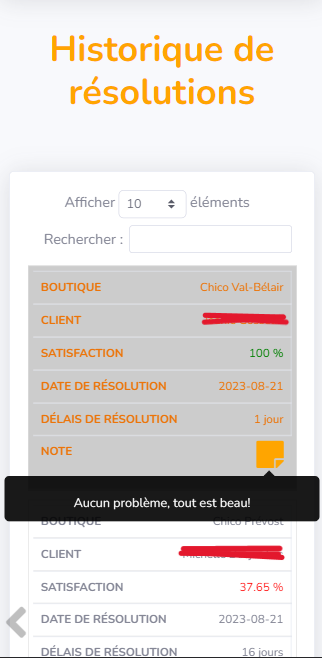
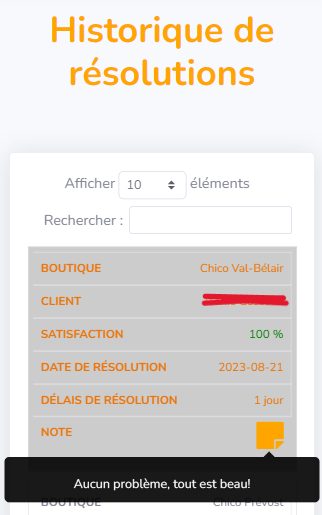
La page de presentation du projet chico est presque terminée

diff --git a/src/components/Details/Chico.jsx b/src/components/Details/Chico.jsx
@@ -7,7 +7,6 @@ import Notification from "../../assets/projects/chico/Notification.png";
 import Stats from "../../assets/projects/chico/Stats.png";
 import Swipe from "../../assets/projects/chico/Swipe.png";
 import InfosSondage from "../../assets/projects/chico/InfosSondage.png";
-import Note from "../../assets/projects/chico/Note.png";
 import HistoriqueNote from "../../assets/projects/chico/HistoriqueNote.png";
 import DtailsReponses from "../../assets/projects/chico/DtailsReponses.png";
 import Datatable from "../../assets/projects/chico/Datatable.png";
@@ -55,12 +54,12 @@ const ChicoDetails = () => {
         </a>
       </div>
       <div className="max-w-[1000px] mx-auto p-4 flex flex-col justify-center w-full h-full">
-        <div class="py-6 sm:py-8 lg:py-12 pt-10">
+        <div class="py-4 sm:py-8 lg:py-20 pt-10">
           <div class="mx-auto max-w-screen-2xl px-4 md:px-8">
-            <div class="mb-4 flex items-center justify-between gap-8 sm:mb-8 md:mb-12">
+            <div class="flex items-center justify-between gap-8 sm:mb-8 md:mb-12">
               <div className="pb-8">
                 <h1 className="text-4xl sm:text-7xl font-bold inline border-b-4 border-[#ff840092]">
-                  Chico
+                  Franchises Chico
                 </h1>
                 <p className="py-10">
                   // Durant mon stage, j'ai travaillé sur un projet intitullé
@@ -206,7 +205,7 @@ const ChicoDetails = () => {
               </div>
             </div>
 
-            {/* New grid start */}
+            {/* New grid start 3 */}
             <div className="mt-20 grid grid-cols-1 sm:grid-cols-2 md:grid-cols-3 grid-rows-1 gap-4">
               <div className="md:col-span-2">
                 {/* Text */}
@@ -247,6 +246,118 @@ const ChicoDetails = () => {
                     }
                   />
                 </a>
+              </div>
+            </div>
+
+            {/* grid start 4 */}
+
+            <div class="mt-20 grid grid-cols-1 sm:grid-cols-2 gap-6 md:gap-6 xl:gap-8">
+              {/*  image - start  */}
+              <div class="group relative flex h-48 md:h-80 items-end overflow-hidden rounded-lg">
+                <img
+                  src={HistoriqueNote}
+                  loading="lazy"
+                  alt="HistoriqueNote"
+                  className="absolute inset-0 h-full w-full object-cover object-center transition duration-200 group-hover:scale-110"
+                  onClick={() =>
+                    setModalInfo({
+                      isOpen: true,
+                      src: HistoriqueNote,
+                      alt: "HistoriqueNote",
+                    })
+                  }
+                />
+              </div>
+              {/*  image - end  */}
+
+              {/* Text start */}
+              <div class="grid sm:col-span-1 gap-4 md:gap-6 xl:gap-8">
+                <p className="text-s">
+                  L'interface permet également de consulter l'historique des
+                  résolutions d'alertes. Dans cette section, les utilisateurs
+                  ont la possibilité de visualiser les notes de résolution
+                  associées à chaque alerte passée. Les alertes dans
+                  l'historique sont triées en fonction de la résolution la plus
+                  récente, ce qui permet d'avoir une vue claire des actions
+                  prises pour chaque alerte précédente.
+                  <br /> <br />
+                  Contrairement à la page principale des alertes, où les alertes
+                  sont classées en fonction du nombre de jours en alerte pour
+                  prioriser celles qui nécessitent une réponse immédiate,
+                  l'historique met en avant le suivi des actions prises pour
+                  résoudre les alertes passées. De plus, pour faciliter la
+                  recherche et la gestion, j'ai intégré l'utilisation de{" "}
+                  <a
+                    className="hover:text-[--amethyst] duration-300"
+                    href="https://datatables.net/manual/"
+                    target="_blank"
+                    rel="noopener noreferrer"
+                  >
+                    DataTables
+                  </a>
+                  , offrant ainsi la possibilité d'appliquer différents filtres
+                  et options pour une meilleure expérience utilisateur.
+                </p>
+              </div>
+
+              {/*  image - start  */}
+              <a
+                href="#"
+                className="group relative flex h-48 items-end overflow-hidden rounded-lg md:col-span-full md:h-80"
+              >
+                <img
+                  src={Datatable}
+                  loading="lazy"
+                  alt="Datatable"
+                  className="absolute inset-0 h-full w-full object-cover object-center transition duration-200 group-hover:scale-110"
+                  onClick={() =>
+                    setModalInfo({
+                      isOpen: true,
+                      src: Datatable,
+                      alt: "Datatable",
+                    })
+                  }
+                />
+              </a>
+
+              {/*  image - end  */}
+            </div>
+
+            {/* Last grid */}
+            <div className="mt-20 grid grid-cols-1 grid-rows-1 gap-4">
+              <div>
+                {/* Text start */}
+                <div class="grid sm:col-span-1">
+                  <p className="text-s">
+                    Pendant mon stage, j'ai été confronté à de nouvelles
+                    technologies que je n'avais jamais rencontrées à l'école.
+                    Cependant, une fois que l'on a acquis une solide
+                    compréhension des bases de la programmation, du modèle MVC
+                    et des requêtes SQL, par exemple, il devient plus aisé de
+                    s'adapter. J'ai fait un usage étendu de jQuery et j'ai eu à
+                    réaliser des requêtes AJAX pour gérer les interactions
+                    dynamiques. En parallèle, j'ai utilisé SQL Server Management
+                    Studio (SSMS) comme interface pour la gestion de la base de
+                    données. 
+                    <br /><br />
+                    Mon rôle durant ce stage a également inclus la
+                    résolution de plusieurs problèmes. Par exemple, j'ai
+                    identifié qu'il était possible pour les clients de soumettre
+                    le même formulaire à plusieurs reprises, ce qui aurait pu
+                    altérer les données statistiques des sondages. Pour pallier
+                    cela, j'ai implémenté des mesures en bloquant l'adresse IP
+                    pendant 24 heures après un certain nombre de soumissions et
+                    en empêchant toute nouvelle soumission une fois le
+                    formulaire envoyé une première fois. Cette initiative visait
+                    à garantir l'intégrité des données collectées. 
+                    <br /><br />
+                    L'expérience
+                    m'a permis d'élargir mes compétences et de relever des défis
+                    concrets dans le développement d'applications interactives,
+                    tout en améliorant la qualité des fonctionnalités et en
+                    assurant l'intégrité des données.
+                  </p>
+                </div>
               </div>
             </div>
 

diff --git a/src/components/Tools/ImageModal.jsx b/src/components/Tools/ImageModal.jsx
@@ -4,7 +4,7 @@ const ImageModal = ({ src, alt, isModalOpen, closeModal }) => {
   return (
     <>
       {isModalOpen && (
-        <div className="fixed max-h-screen inset-0 flex items-center justify-center bg-[#000000c0]">
+        <div className="z-50 fixed max-h-screen inset-0 flex items-center justify-center bg-[#000000c0]">
           <div className="p-6 rounded shadow-lg max-w-lg mx-auto relative">
             <button
               className="absolute top-0 right-0 text-[#e7e7e7] hover:text-purple-500 duration-300 text-[30px]"
